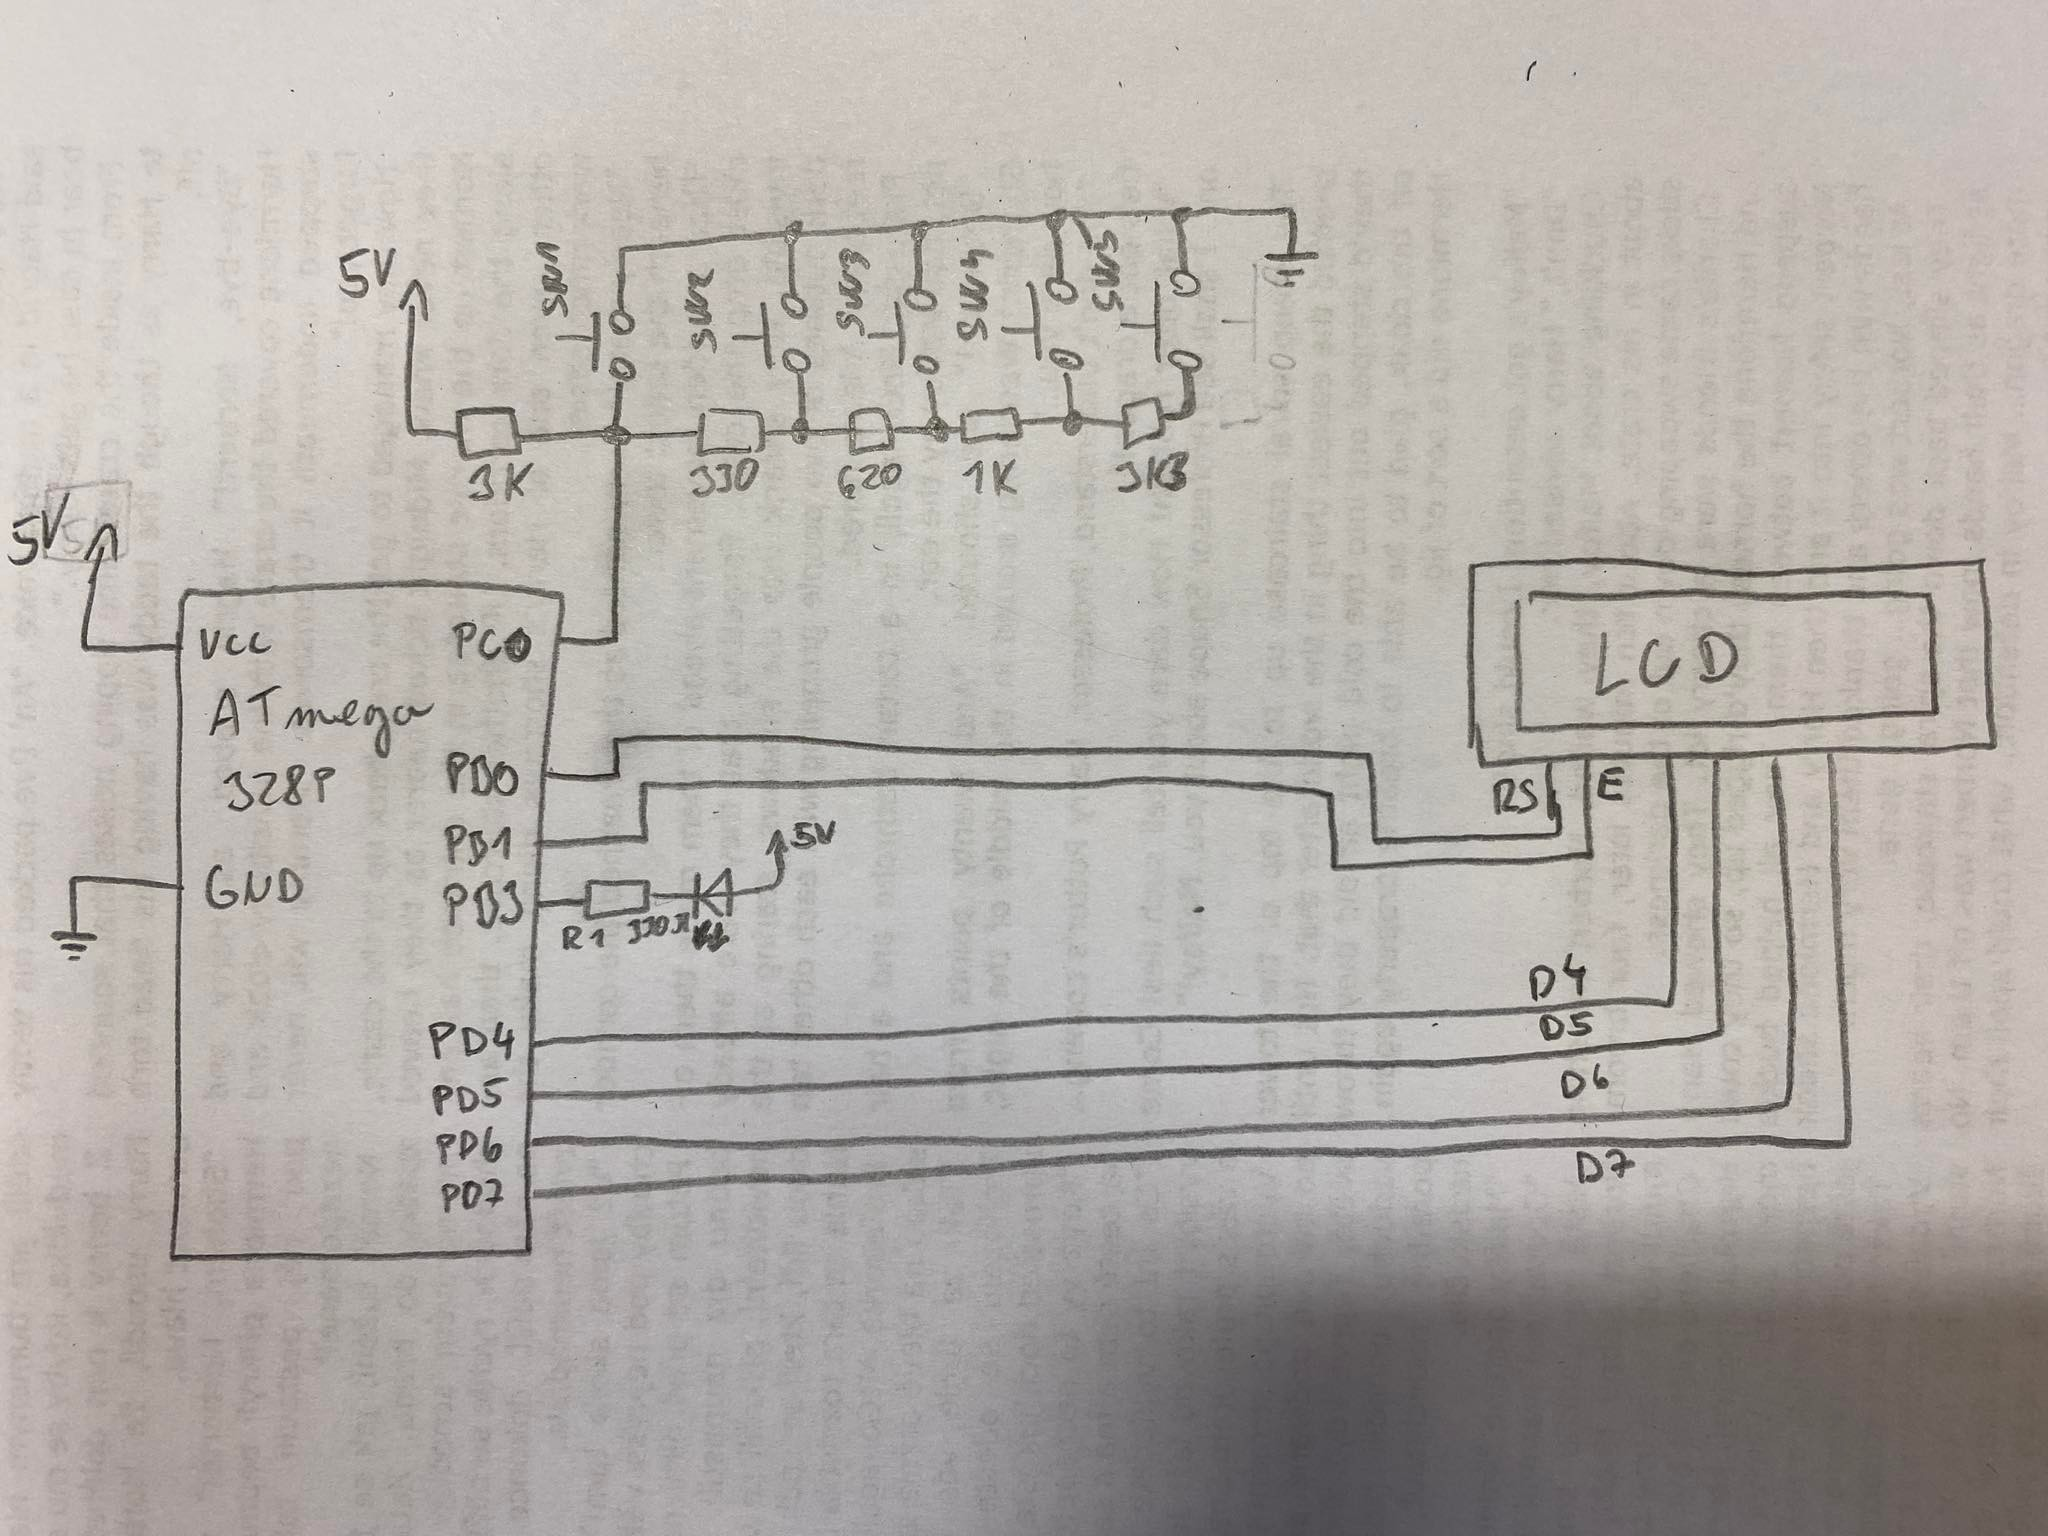
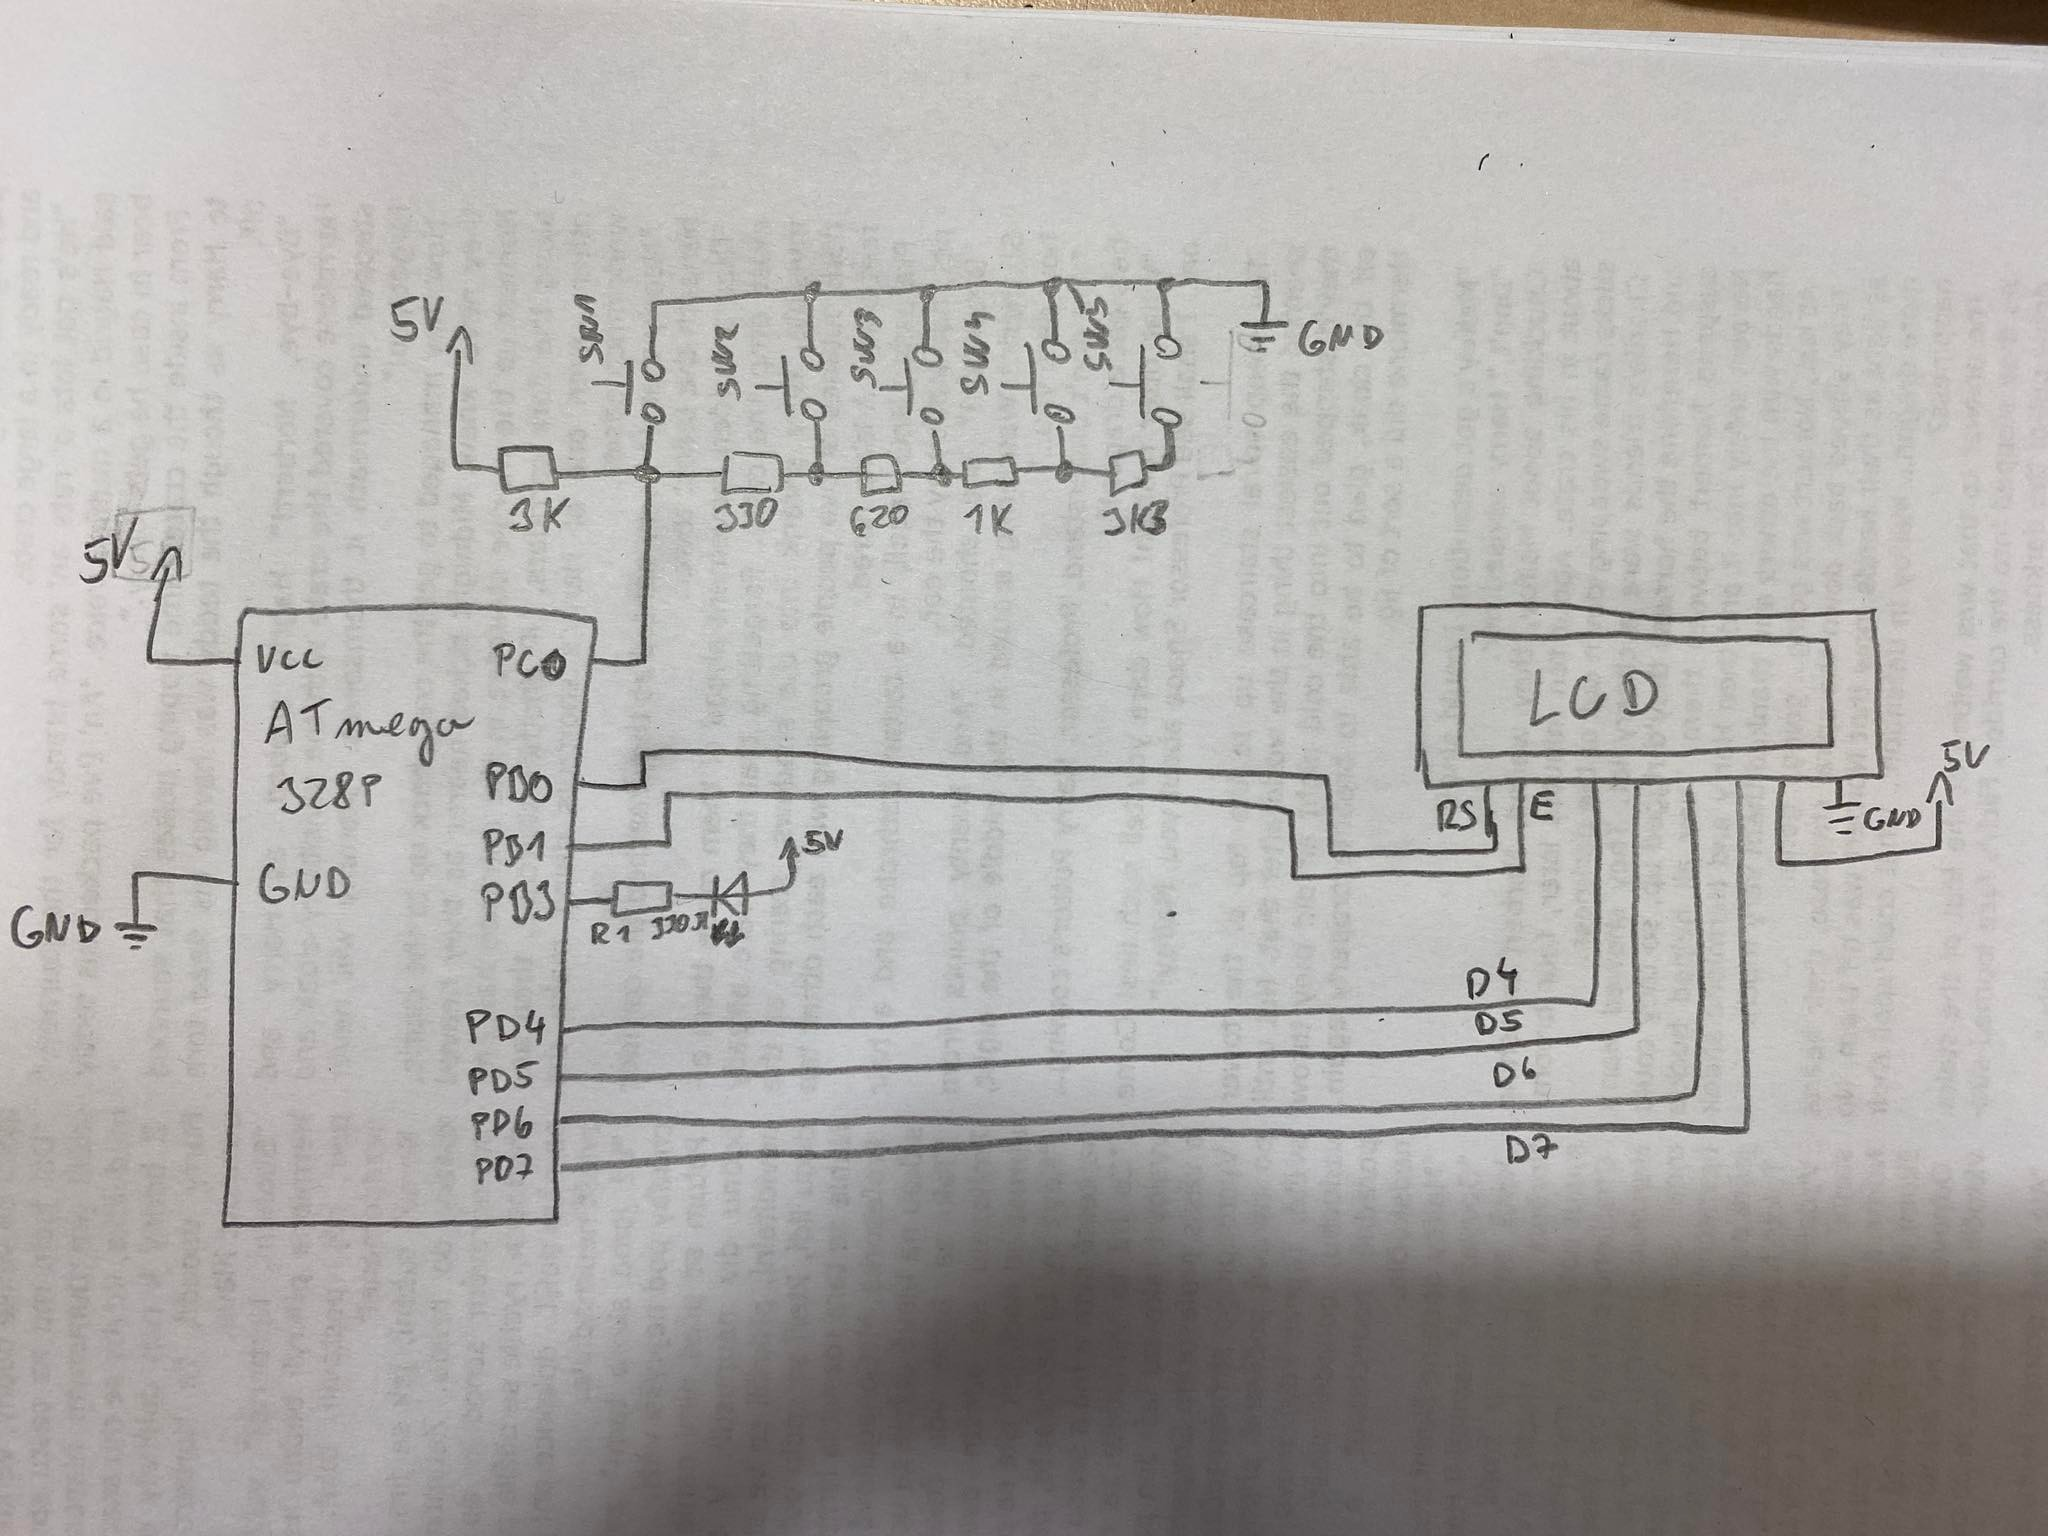
FINISH

diff --git a/Labs/06-lcd/README.md b/Labs/06-lcd/README.md
@@ -57,7 +57,7 @@ Consider a kitchen alarm with an LCD, one LED and three push buttons: start, +1 
 
 1. Scheme of kitchen alarm; do not forget the supply voltage. The image can be drawn on a computer or by hand. Always name all components and their values.
 
-   ![your figure]()### 7-segment library
+![alt text](https://github.com/xsedla1l/Digital_electronics_2/blob/main/Labs/06-lcd/Images/Kitchen_Alarm.png)
 
 
 
